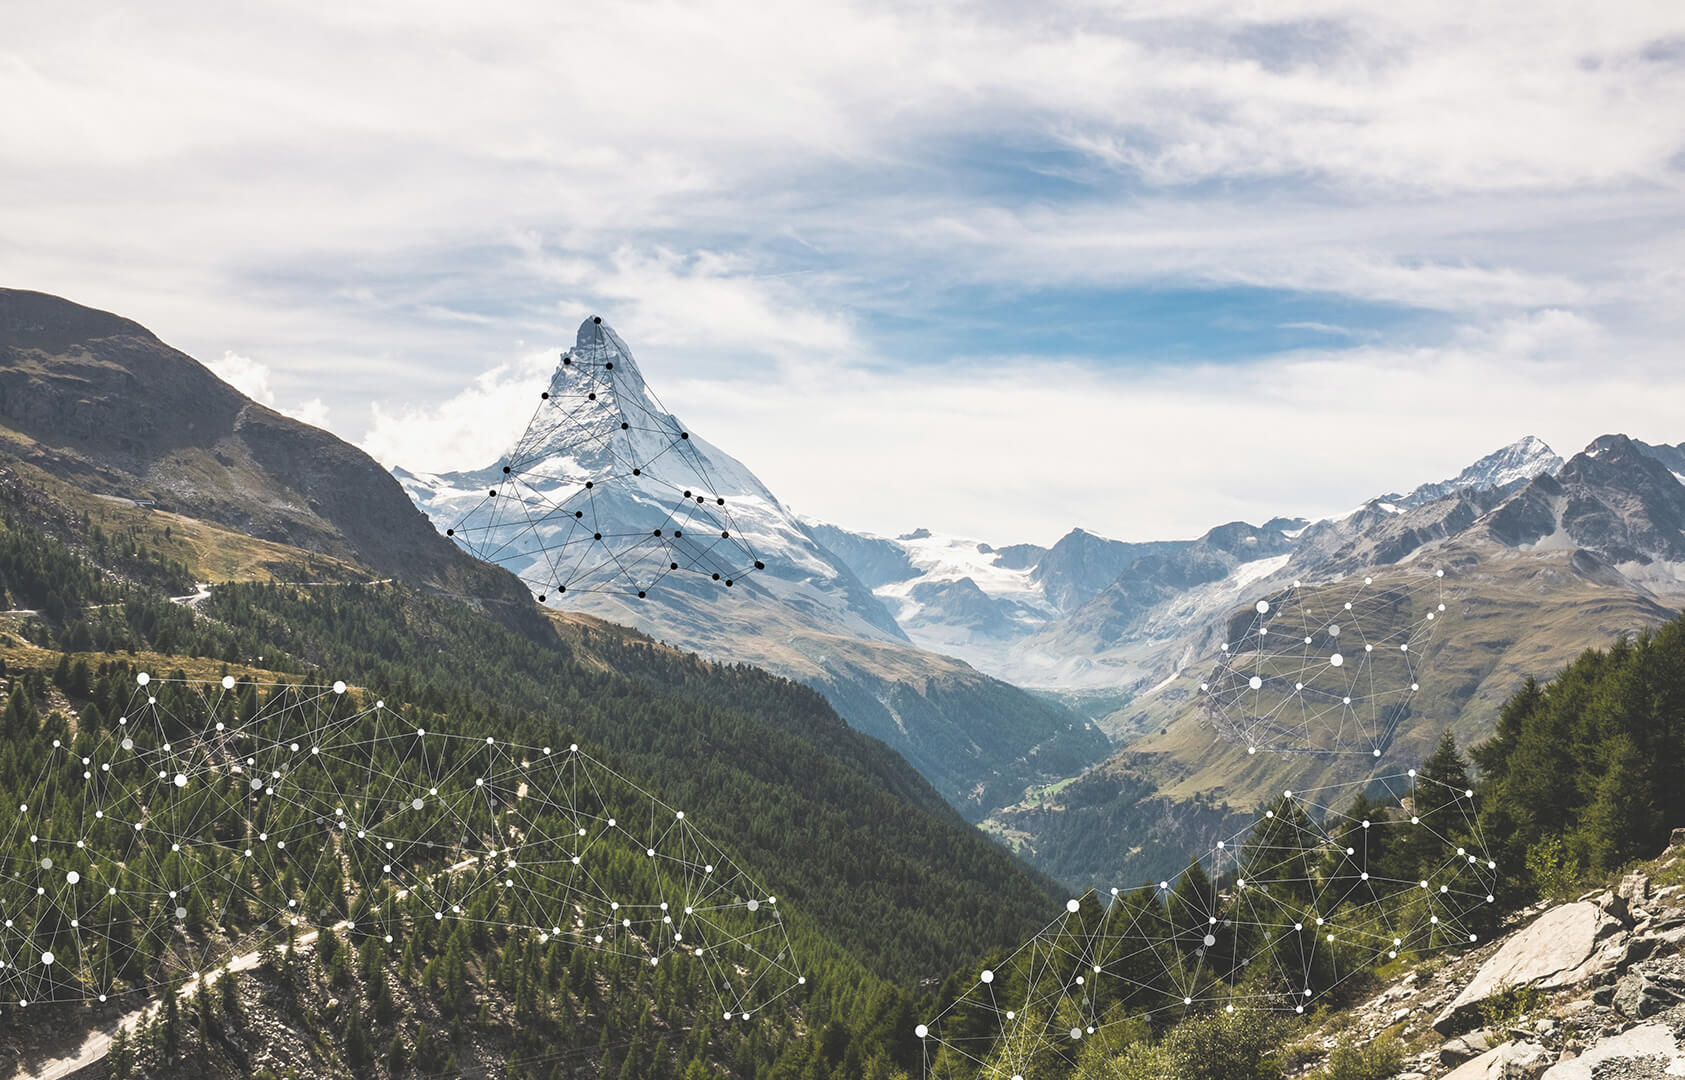
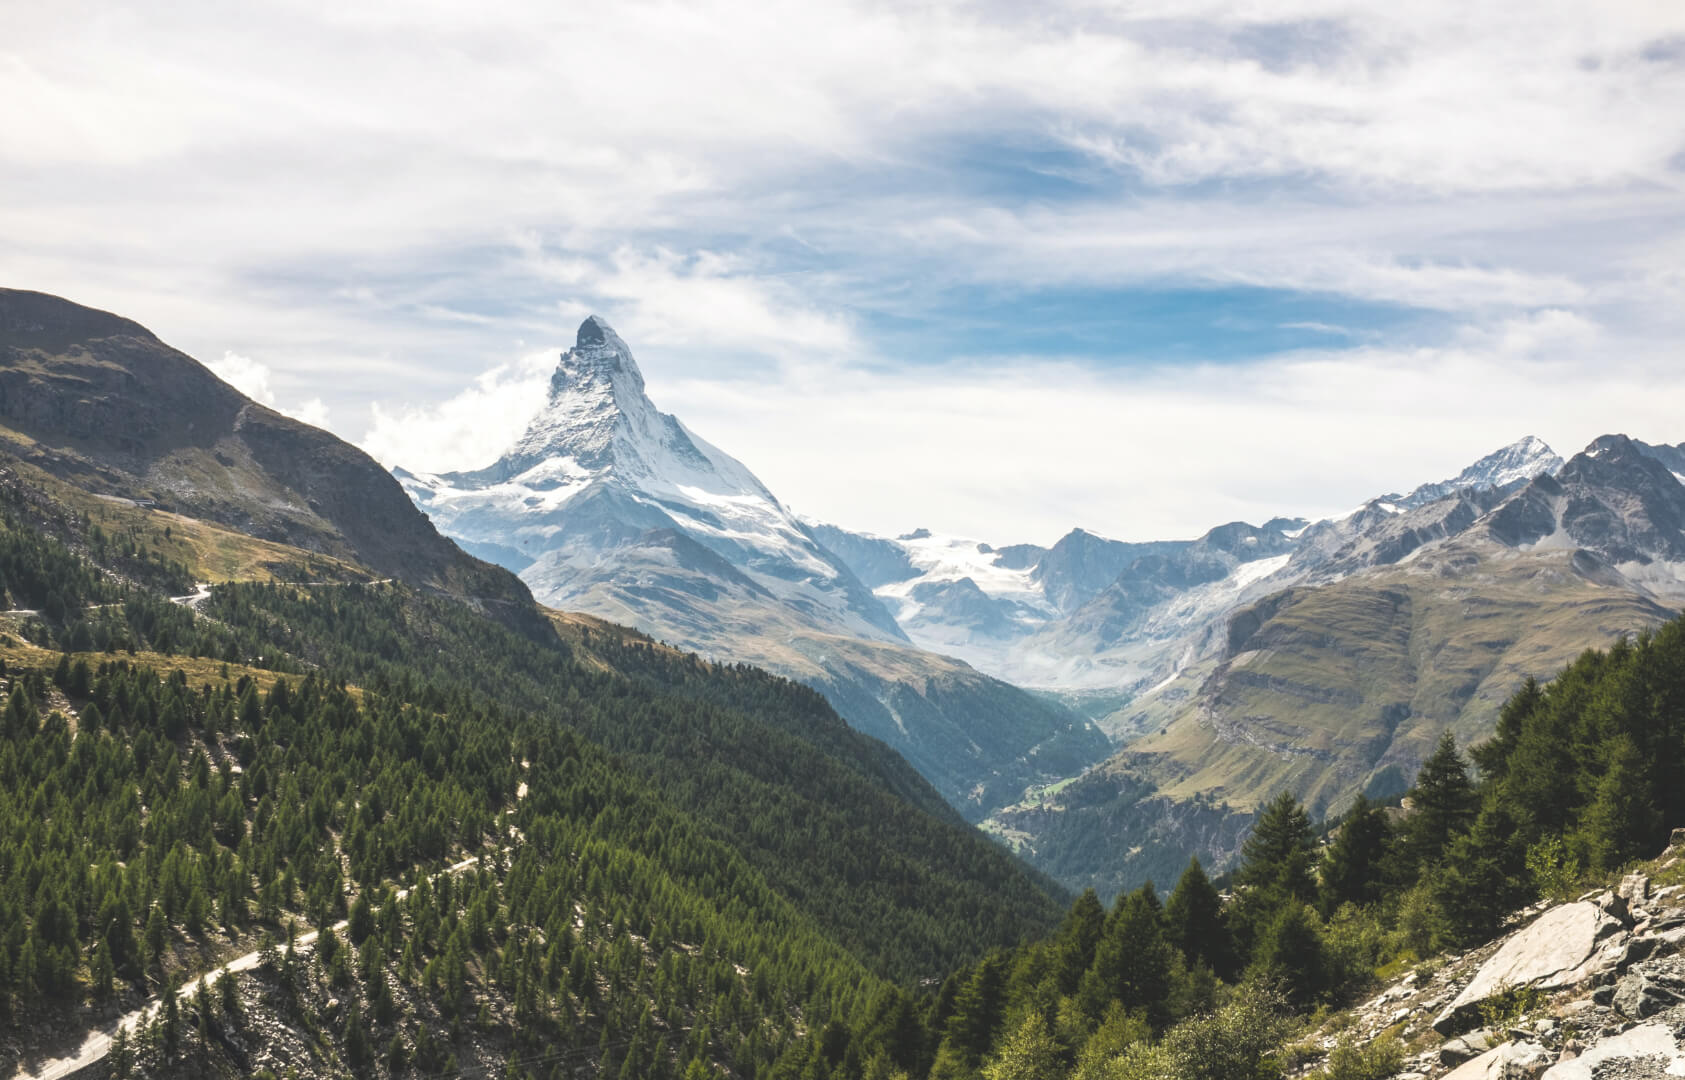
added images without polygons; added watch for config and particle loading

diff --git a/src/modules/home/components/LandingPage.vue b/src/modules/home/components/LandingPage.vue
@@ -79,7 +79,7 @@
  * @author Dominik Haas-Artho
  *
  * Created at     : 2019-10-23 16:12:30
- * Last modified  : 2020-11-19 09:04:18
+ * Last modified  : 2020-11-24 17:27:19
  *
  * This file is subject to the terms and conditions defined in
  * file 'LICENSE.txt', which is part of this source code package.
@@ -122,9 +122,7 @@ export default {
     });
   },
   mounted() {
-    if (this.showPolygonParticles) {
-      this.initPolygonParticles();
-    }
+    this.initPolygonParticles();
   },
   destroyed() {
     this.stopParticles();
@@ -132,12 +130,20 @@ export default {
   computed: {
     ...mapState([
       'categoryCards',
+      'config',
     ]),
     showPolygonParticles() {
       return this.$vuetify.breakpoint.mdAndUp && this.effectsConfig.landingPageParticles && !this.$store.getters.itIsDecember;
     },
     effectsConfig() {
       return this.config?.effectsConfig || {};
+    },
+  },
+  watch: {
+    config() {
+      if (!this.loadingConfig) {
+        this.initPolygonParticles();
+      }
     },
   },
   methods: {
@@ -162,16 +168,18 @@ export default {
       }
     },
     initPolygonParticles() {
-      // particleOptions have to be in the folder public/particles/polygonParticleOptions.json for development
-      // in production they have to be in same folder as the index.html there -> ./particles/polygonParticleOptions.json
-      // eslint-disable-next-line no-undef
-      particlesJS.load('polygon-canvas', './particles/polygonParticleOptions.json', () => {
-        // console.log('polygon-canvas - particles.js config loaded');
-        if (this.currentParticles) {
-          this.checkStopParticles(false);
-        }
-        this.currentParticles = window.pJS;
-      });
+      if (this.showPolygonParticles) {
+        // particleOptions have to be in the folder public/particles/polygonParticleOptions.json for development
+        // in production they have to be in same folder as the index.html there -> ./particles/polygonParticleOptions.json
+        // eslint-disable-next-line no-undef
+        particlesJS.load('polygon-canvas', './particles/polygonParticleOptions.json', () => {
+          // console.log('polygon-canvas - particles.js config loaded');
+          if (this.currentParticles) {
+            this.checkStopParticles(false);
+          }
+          this.currentParticles = window.pJS;
+        });
+      }
     },
     catchCategoryClicked(cardType) {
       if (cardType.includes('login')) {

diff --git a/src/App.vue b/src/App.vue
@@ -92,7 +92,7 @@
  * @author Dominik Haas-Artho
  *
  * Created at     : 2019-10-23 16:12:30
- * Last modified  : 2020-11-19 08:45:17
+ * Last modified  : 2020-11-24 17:25:02
  *
  * This file is subject to the terms and conditions defined in
  * file 'LICENSE.txt', which is part of this source code package.
@@ -432,6 +432,7 @@ export default {
       if (!this.loadingConfig) {
         this.setupNavItems();
         this.loadAllMetadata();
+        this.startParticles();
       }
     },
     notifications() {
